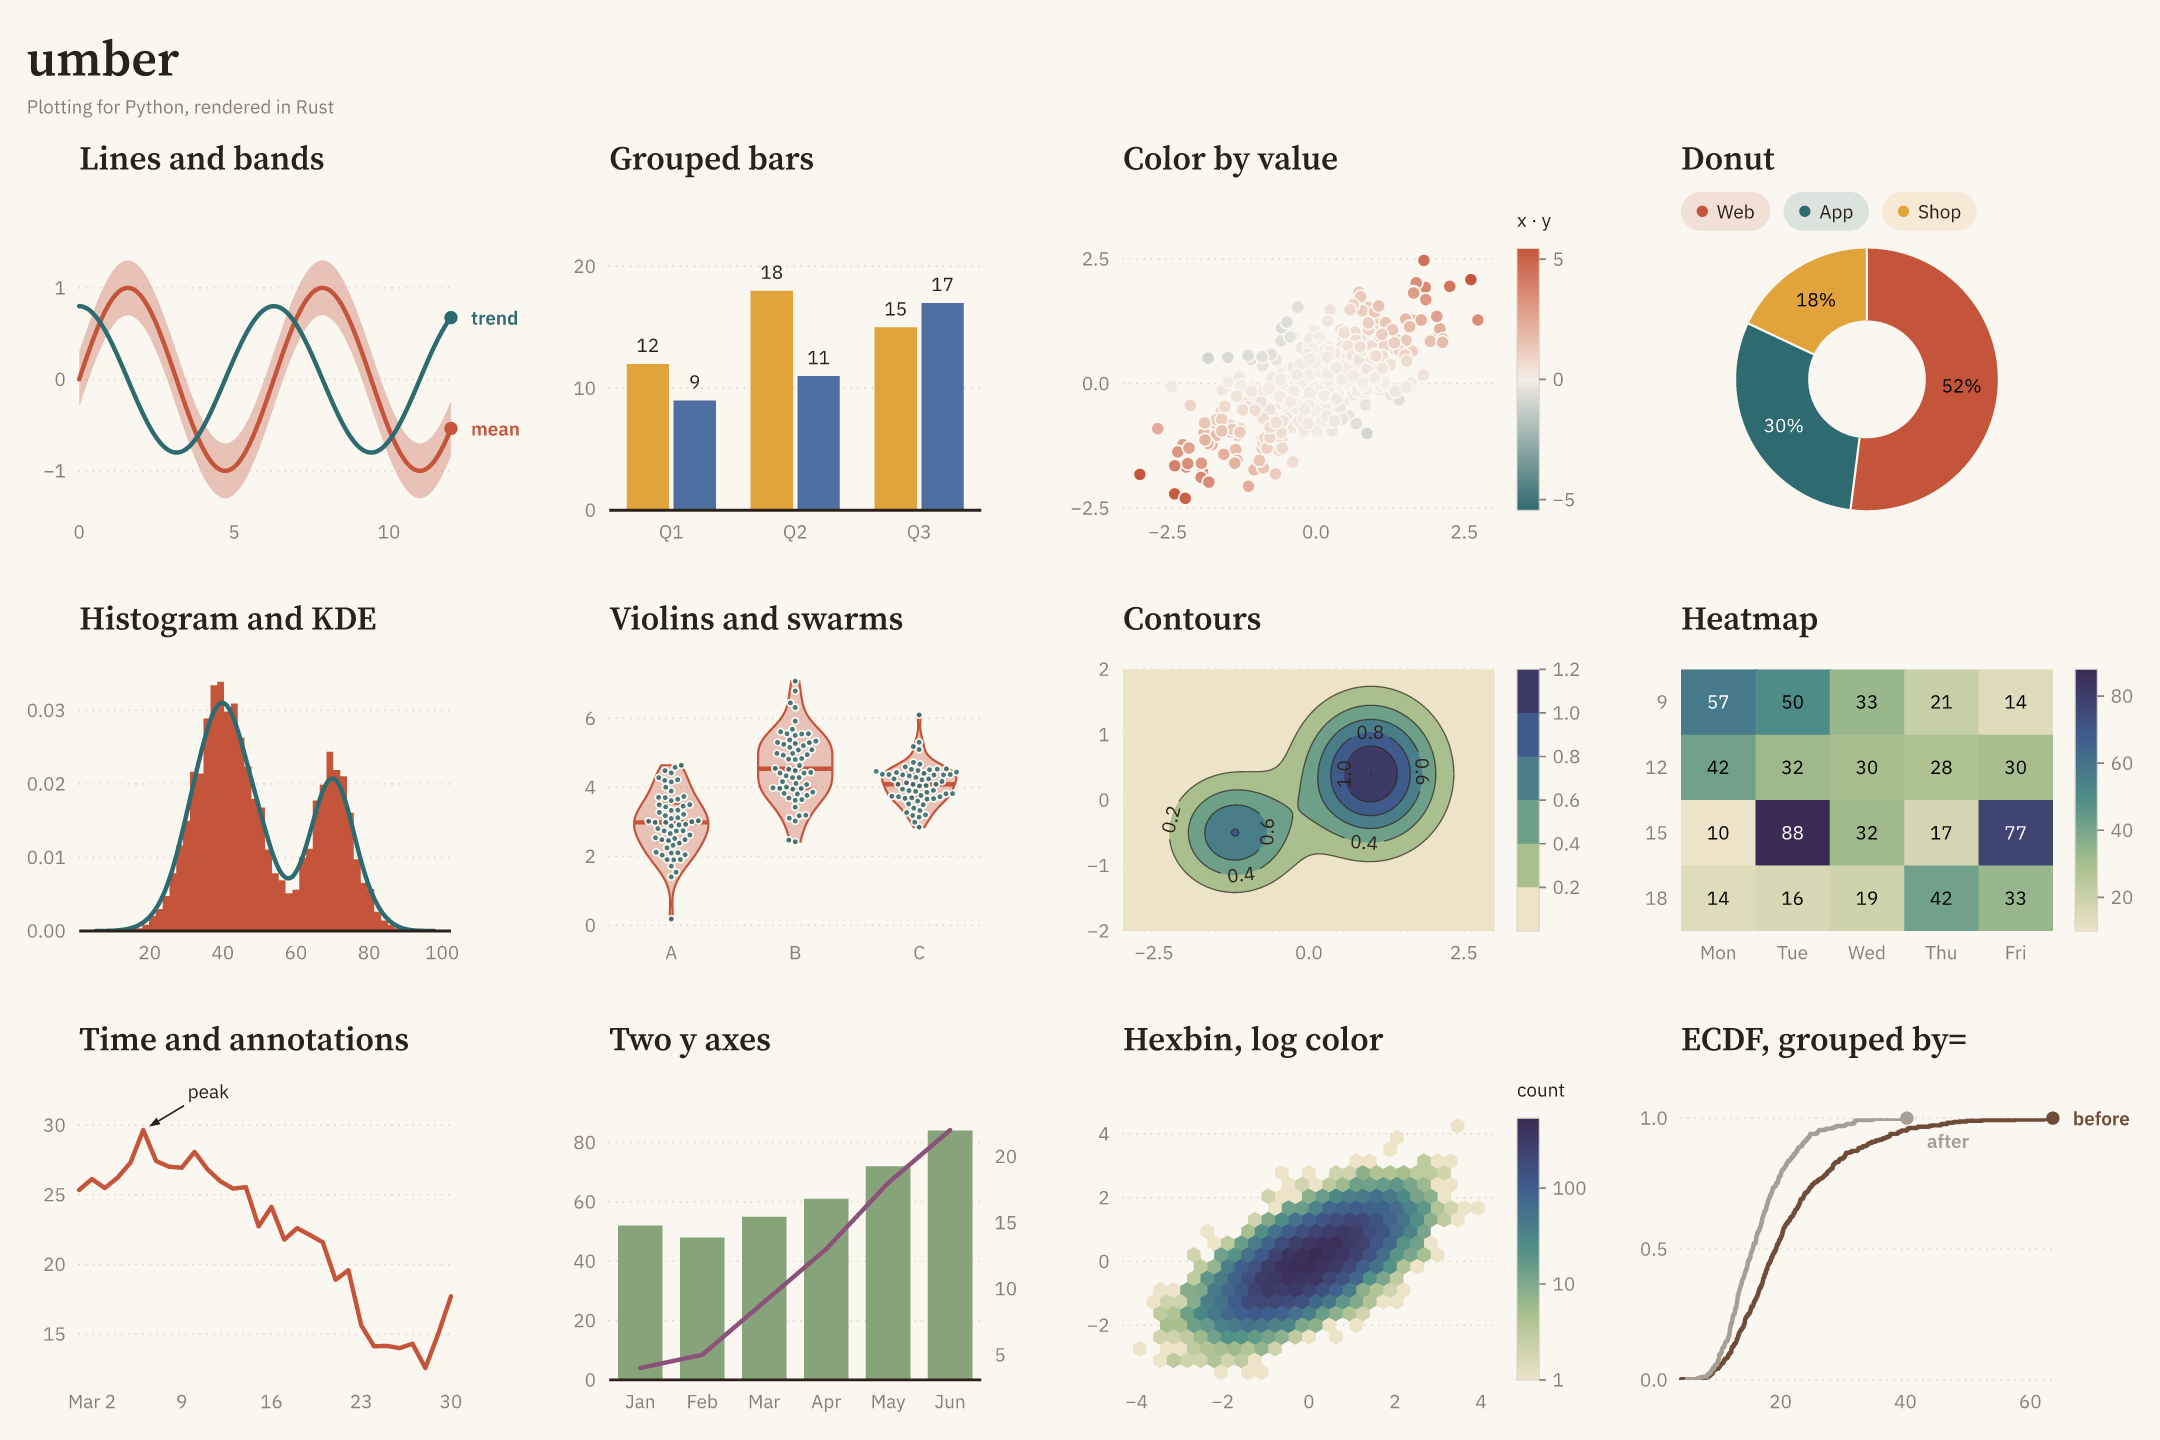
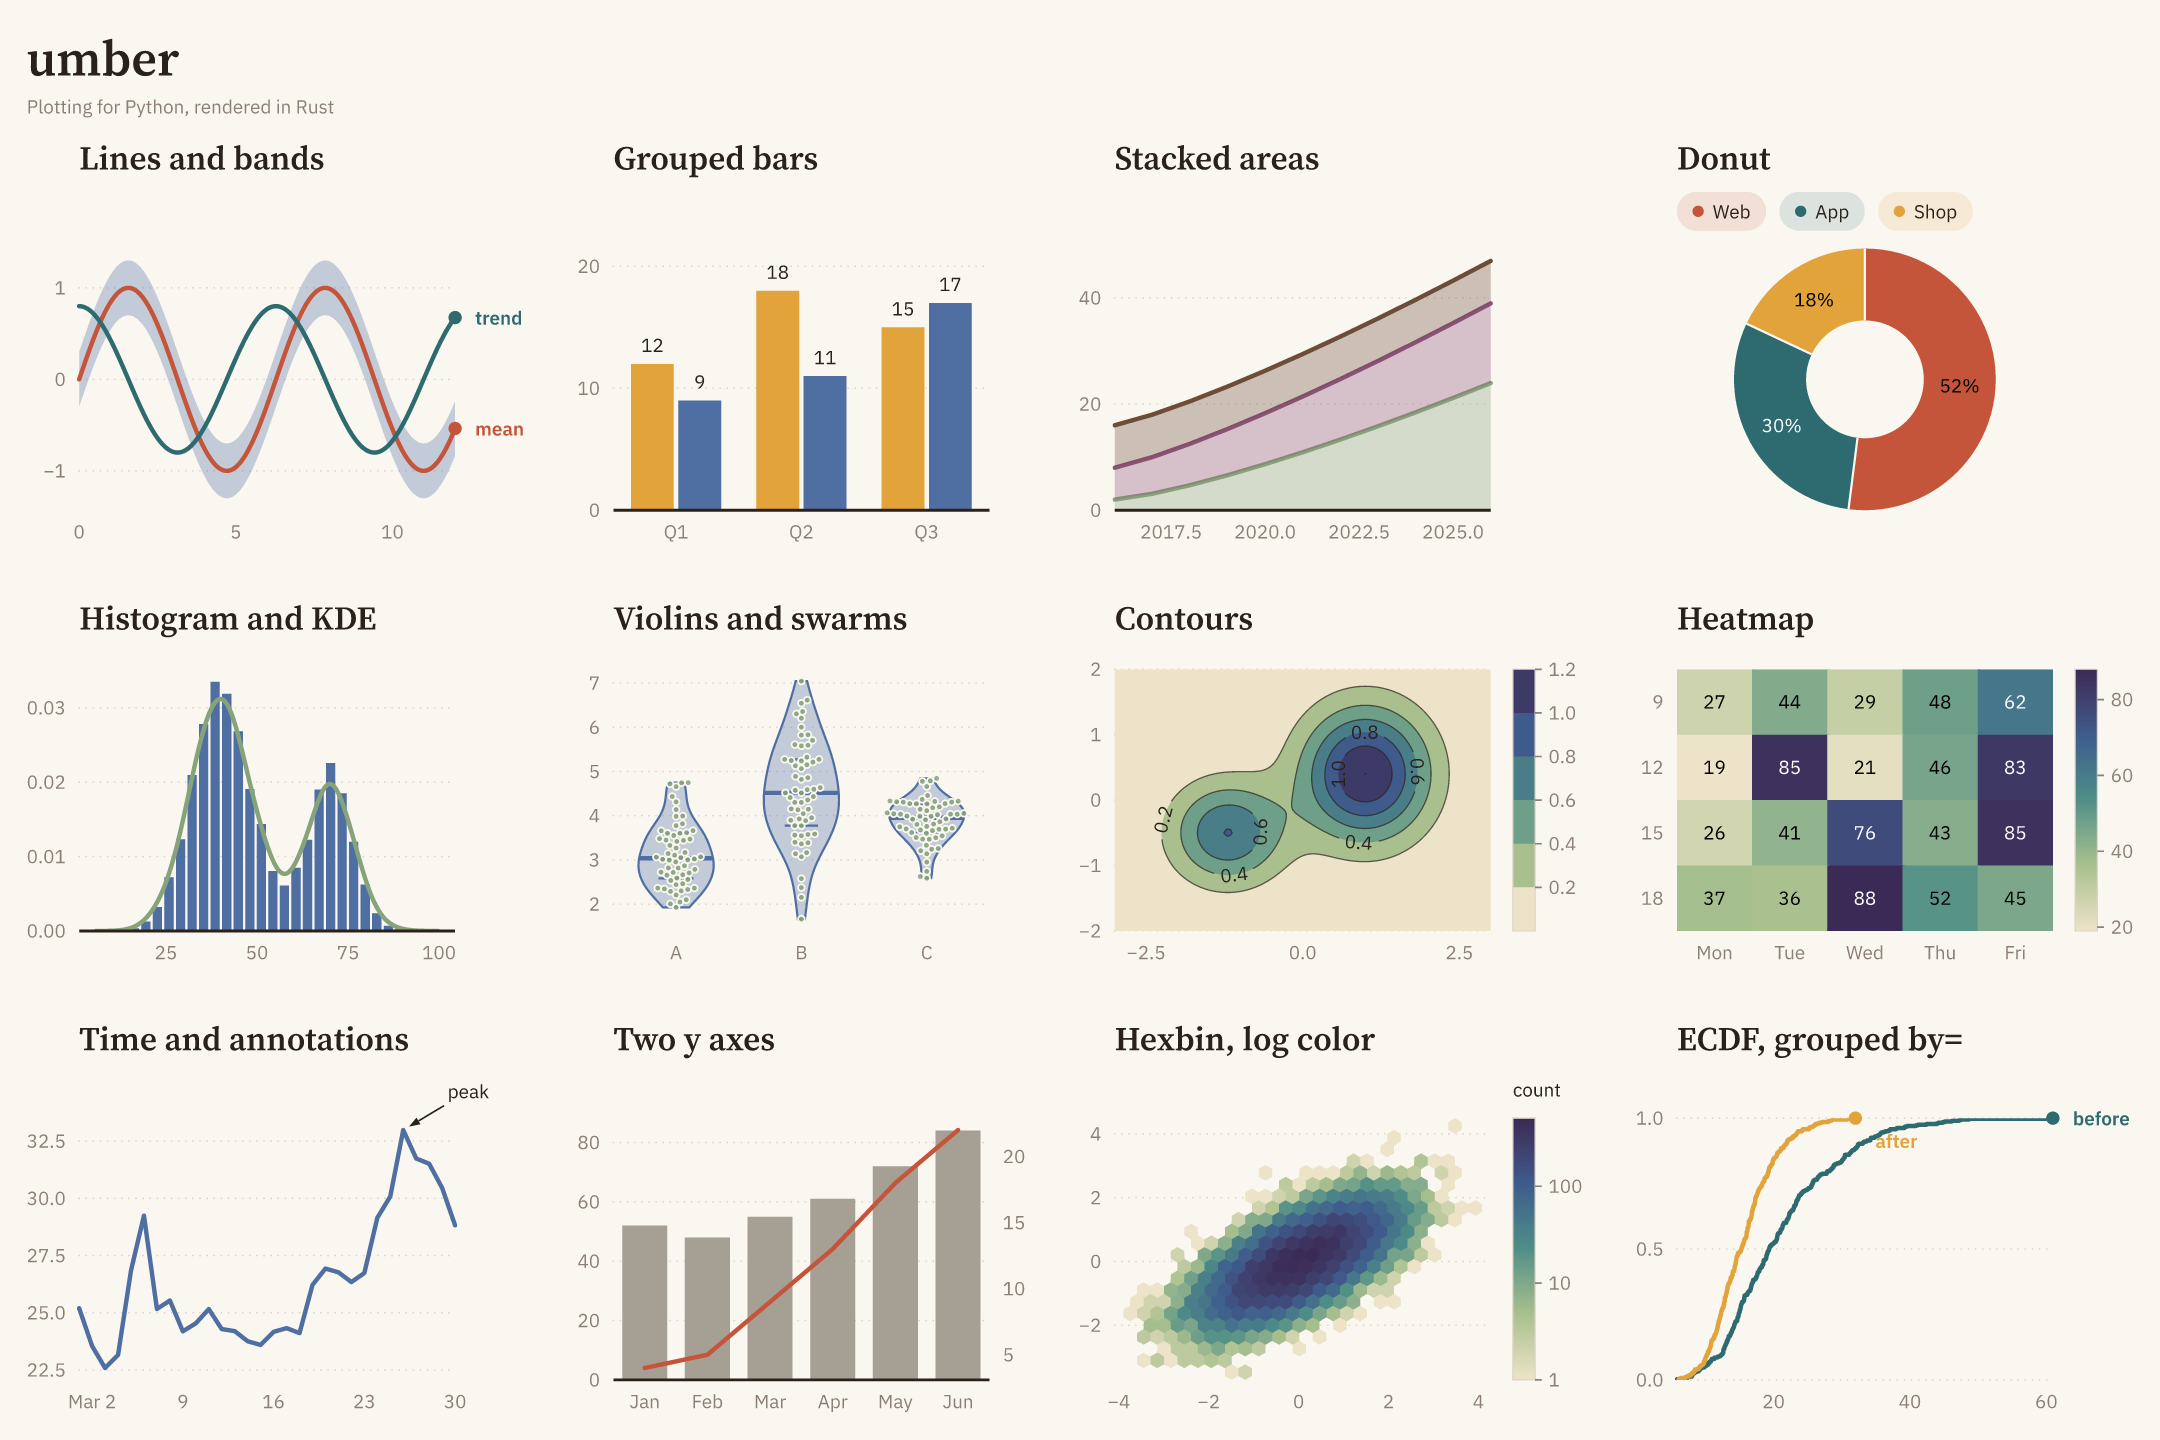
Separate Pigment histogram bars and refresh the gallery (#171)

diff --git a/scripts/readme/render_images.py b/scripts/readme/render_images.py
@@ -40,11 +40,18 @@ def gallery() -> None:
     )
     ax.legend(ub.LegendStyle.NONE)
 
-    # Scatter coloured by value.
-    px = rng.normal(size=400)
-    py = 0.6 * px + rng.normal(scale=0.6, size=400)
-    ax = fig.add_axes(row=0, col=2).title("Color by value")
-    ax.scatter(px, py, color=ub.ColorBy(px * py, center=0.0)).colorbar("x · y")
+    # Stacked areas.
+    years = np.arange(2016, 2027)
+    ax = fig.add_axes(row=0, col=2).title("Stacked areas")
+    ax.stacked_area(
+        years,
+        [
+            ub.Series("Solar", 2.0 + 1.1 * (years - 2016) ** 1.3),
+            ub.Series("Wind", 6.0 + 0.9 * (years - 2016)),
+            ub.Series("Hydro", np.full(years.size, 8.0)),
+        ],
+    )
+    ax.legend(ub.LegendStyle.NONE)
 
     # Donut.
     ax = fig.add_pie_axes(row=0, col=3).title("Donut")
@@ -55,7 +62,7 @@ def gallery() -> None:
     # Histogram and KDE.
     v = np.concatenate([rng.normal(40, 8, 3000), rng.normal(70, 6, 1500)])
     ax = fig.add_axes(row=1, col=0).title("Histogram and KDE")
-    ax.hist(v, bins=40, stat=ub.Stat.DENSITY).kde(v)
+    ax.hist(v, bins=24, stat=ub.Stat.DENSITY).kde(v)
     ax.legend(ub.LegendStyle.NONE)
 
     # Violin with swarm.

diff --git a/crates/umber-core/src/theme.rs b/crates/umber-core/src/theme.rs
@@ -478,7 +478,7 @@ impl Theme {
             marker_size: 6.0,
             marker_alpha: 0.85,
             bar_corner_radius: 0.0,
-            hist_gap: 0.0,
+            hist_gap: 1.0,
             panel_gap: 24.0,
             cap_width: 8.0,
             stem_width: 1.5,
@@ -1576,7 +1576,7 @@ impl Theme {
     /// ```
     /// use umber_core::{Dash, Font, FillStyle, GridLines, LegendStyle, Theme, Rgba};
     ///
-    /// let theme = Theme::pigment().with_hist_gap(1.0)?;
+    /// let theme = Theme::pigment().with_hist_gap(2.0)?;
     /// # let _ = theme;
     /// # Ok::<(), umber_core::Error>(())
     /// ```
@@ -1686,7 +1686,7 @@ mod tests {
         );
         assert_eq!(p.line_width(), 2.0);
         assert_eq!((p.marker_size(), p.marker_alpha()), (6.0, 0.85));
-        assert_eq!((p.bar_corner_radius(), p.hist_gap()), (0.0, 0.0));
+        assert_eq!((p.bar_corner_radius(), p.hist_gap()), (0.0, 1.0));
         assert_eq!(
             hexes(&p),
             [

diff --git a/python/umber/_theme.py b/python/umber/_theme.py
@@ -575,7 +575,7 @@ class Theme:
 
         Example:
             >>> import umber as ub
-            >>> theme = ub.Theme.PIGMENT.with_hist_gap(1.0)
+            >>> theme = ub.Theme.PIGMENT.with_hist_gap(2.0)
             >>> theme == ub.Theme.PIGMENT
             False
         """

diff --git a/python/umber/_skill/umber/references/api.md b/python/umber/_skill/umber/references/api.md
@@ -5418,7 +5418,7 @@ Example:
 
 ```python
 >>> import umber as ub
->>> theme = ub.Theme.PIGMENT.with_hist_gap(1.0)
+>>> theme = ub.Theme.PIGMENT.with_hist_gap(2.0)
 >>> theme == ub.Theme.PIGMENT
 False
 ```

diff --git a/skills/umber/references/api.md b/skills/umber/references/api.md
@@ -5418,7 +5418,7 @@ Example:
 
 ```python
 >>> import umber as ub
->>> theme = ub.Theme.PIGMENT.with_hist_gap(1.0)
+>>> theme = ub.Theme.PIGMENT.with_hist_gap(2.0)
 >>> theme == ub.Theme.PIGMENT
 False
 ```
